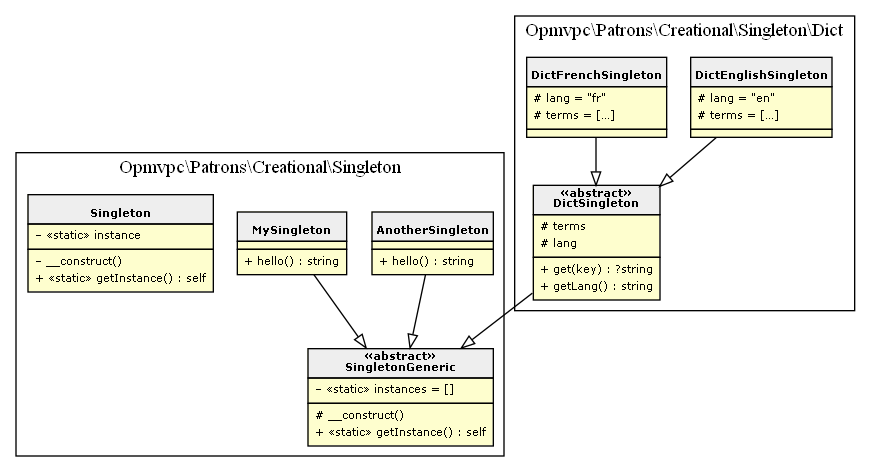
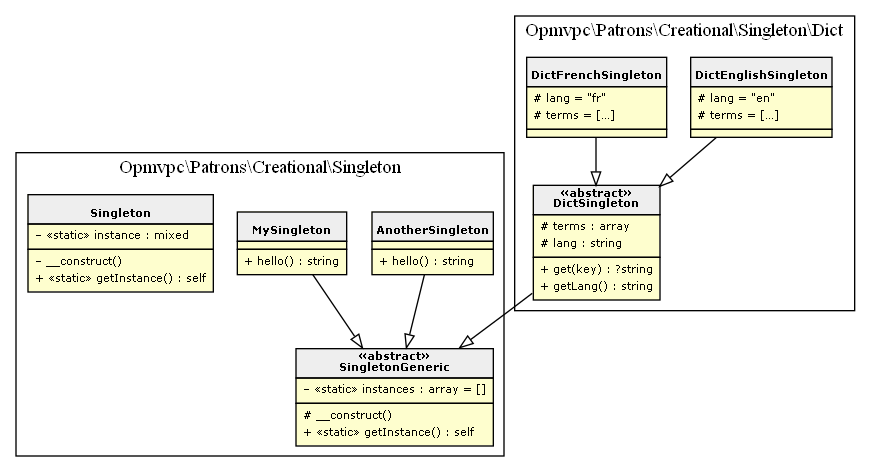
pattern proxy

diff --git a/tests/Structural/Proxy/ProxyTest.php b/tests/Structural/Proxy/ProxyTest.php
@@ -1,0 +1,44 @@
+<?php
+
+namespace Opmvpc\Patrons\Structure\Tests\Proxy;
+
+use Opmvpc\Patrons\Structural\Proxy\FakeVideo;
+use Opmvpc\Patrons\Structural\Proxy\MP4Video;
+use PHPUnit\Framework\TestCase;
+
+class ProxyTest extends TestCase
+{
+    /** @test */
+    public function returns_a_new_instance()
+    {
+        $video = new FakeVideo('path/to/file');
+        $this->assertInstanceOf(FakeVideo::class, $video);
+    }
+
+    /** @test */
+    public function it_creates_a_new_MP4Video()
+    {
+        $video = new FakeVideo('path/to/file');
+        $this->assertNull($video->getRef());
+        $video->play();
+        $this->assertInstanceOf(MP4Video::class, $video->getRef());
+    }
+
+    /** @test */
+    public function it_can_show_an_image_placeholder()
+    {
+        $video = new FakeVideo('path/to/file');
+        $this->assertNull($video->getRef());
+        $video->show();
+    }
+
+    /** @test */
+    public function it_can_show_the_video_image()
+    {
+        $video = new FakeVideo('path/to/file');
+        $this->assertNull($video->getRef());
+        $video->play();
+        $this->assertInstanceOf(MP4Video::class, $video->getRef());
+        $video->show();
+    }
+}

diff --git a/src/Structural/Proxy/FakeVideo.php b/src/Structural/Proxy/FakeVideo.php
@@ -1,0 +1,67 @@
+<?php
+
+declare(strict_types=1);
+
+namespace Opmvpc\Patrons\Structural\Proxy;
+
+class FakeVideo implements Video
+{
+    /**
+     * @var string
+     */
+    private string $fileName;
+
+    /**
+     * @var null|Video
+     */
+    private ?Video $ref = null;
+
+    /**
+     * @param string $filename
+     * @return void
+     */
+    public function __construct(string $fileName)
+    {
+        $this->fileName = $fileName;
+    }
+
+    /**
+     * @return void
+     */
+    public function play(): void
+    {
+        if ($this->ref === null) {
+            $this->ref = new MP4Video($this->fileName);
+        }
+        $this->ref->play();
+    }
+
+    /**
+     * @return void
+     */
+    public function show(): void
+    {
+        if ($this->ref === null) {
+            $this->drawImage();
+        } else {
+            $this->ref->show();
+        }
+    }
+
+    /**
+     * @return void
+     */
+    private function drawImage(): void
+    {
+        // draw img from first frame of the video
+    }
+
+    /**
+     *
+     * @return null|Video
+     */
+    public function getRef(): ?Video
+    {
+        return $this->ref;
+    }
+}

diff --git a/generateUmlCD.php b/generateUmlCD.php
@@ -31,8 +31,13 @@ function generateDiagrams(): void
 function getDirs(): array
 {
     $patterns = [
-        'Creational/Factory/AbstractFactory',
-        'Creational/Singleton',
+        'Creational' => [
+            'Factory/AbstractFactory',
+            'Singleton',
+        ],
+        'Structural' => [
+            'Proxy',
+        ],
     ];
 
     return createPath($patterns);
@@ -43,8 +48,10 @@ function createPath(array $patterns)
     $paths = [];
 
     $dataSource = 'src/';
-    foreach ($patterns as $pattern) {
-        $paths[] = $dataSource . $pattern;
+    foreach ($patterns as $categoryName => $category) {
+        foreach ($category as $pattern) {
+            $paths[] = $dataSource . $categoryName . '/' . $pattern;
+        }
     }
 
     return $paths;

diff --git a/src/Structural/Proxy/MP4Video.php b/src/Structural/Proxy/MP4Video.php
@@ -1,0 +1,34 @@
+<?php
+
+declare(strict_types=1);
+
+namespace Opmvpc\Patrons\Structural\Proxy;
+
+class MP4Video implements Video
+{
+    /**
+     * @var string
+     */
+    private string $fileName;
+
+    public function __construct(string $fileName)
+    {
+        $this->fileName = $fileName;
+    }
+
+    /**
+     * @return void
+     */
+    public function play(): void
+    {
+        // play the video using filename
+    }
+
+    /**
+     * @return void
+     */
+    public function show(): void
+    {
+        // show image from file metadata
+    }
+}

diff --git a/src/Creational/Factory/AbstractFactory/Voiture/Voiture.php b/src/Creational/Factory/AbstractFactory/Voiture/Voiture.php
@@ -9,8 +9,16 @@ use Opmvpc\Patrons\Creational\Factory\AbstractFactory\Moteurs\AbstractMoteur;
 
 class Voiture
 {
+    /**
+     *
+     * @var AbstractMoteur
+     */
     private AbstractMoteur $moteur;
 
+    /**
+     *
+     * @var AbstractBatterie
+     */
     private AbstractBatterie $batterie;
 
     public function __construct(AbstractMoteur $moteur, AbstractBatterie $batterie)

diff --git a/src/Creational/Singleton/Dict/DictSingleton.php b/src/Creational/Singleton/Dict/DictSingleton.php
@@ -8,8 +8,14 @@ use Opmvpc\Patrons\Creational\Singleton\SingletonGeneric;
 
 abstract class DictSingleton extends SingletonGeneric
 {
+    /**
+     * @var array
+     */
     protected array $terms;
 
+    /**
+     * @var string
+     */
     protected string $lang;
 
     public function get(string $key): ?string

diff --git a/src/Creational/Singleton/Singleton.php b/src/Creational/Singleton/Singleton.php
@@ -9,6 +9,9 @@ namespace Opmvpc\Patrons\Creational\Singleton;
  */
 class Singleton
 {
+    /**
+     * @var null|Singleton
+     */
     private static ?Singleton $instance = null;
 
     private function __construct()

diff --git a/src/Structural/Proxy/Video.php b/src/Structural/Proxy/Video.php
@@ -1,0 +1,12 @@
+<?php
+
+declare(strict_types=1);
+
+namespace Opmvpc\Patrons\Structural\Proxy;
+
+interface Video
+{
+    public function play():void;
+
+    public function show():void;
+}

diff --git a/src/Creational/Singleton/SingletonGeneric.php b/src/Creational/Singleton/SingletonGeneric.php
@@ -6,6 +6,9 @@ namespace Opmvpc\Patrons\Creational\Singleton;
 
 abstract class SingletonGeneric
 {
+    /**
+     * @var array
+     */
     private static array $instances = [];
 
     /**

diff --git a/README.md b/README.md
@@ -25,13 +25,13 @@ Permet de forcer une classe à n'être instanciée qu'une seule fois. Pour mettr
 ![](src/Creational/Singleton/cd.png)
 
 ### Singleton classic
-[Singleton.php](src/Creational/Singleton/Singleton.php)
+[code de Singleton.php](src/Creational/Singleton/Singleton.php)
 
 *Problème:* la variable statique $instance est partagée pour toutes les classes qui étendent Singleton
 
 ### Singleton Générique
 
-[SingletonGeneric.php](src/Creational/Singleton/SingletonGeneric.php)
+[code de SingletonGeneric.php](src/Creational/Singleton/SingletonGeneric.php)
 
 *Problème:* En php, on a pas encore de types génériques. On peut utiliser Psalm pour les simuler avec la balise "@ template T" Malheureusement, elle ne fonctionne pas pour les attributs statiques.
 
@@ -89,9 +89,7 @@ Exemple:
 
 ### Utilisation du pattern pour un dictionnaire en plusieurs langues
 
-[DictSingleton.php](src/Creational/Singleton/Dict/DictSingleton.php)
-
-[DictEnglishSingleton.php](src/Creational/Singleton/Dict/DictEnglishSingleton.php)
+[code de l'exemple du dictionnaire](src/Creational/Singleton/Dict)
 
 On peut instancier plusieurs classes qui étendent DictSingleton. On viole les principes du patron Singleton de base.
 
@@ -101,7 +99,7 @@ On peut instancier plusieurs classes qui étendent DictSingleton. On viole les p
 Permet de créer des objets différents avec une API qui sera similaire.
 Exemple ici avec Des usines à voitures thermiques et électriques.
 
-[AbstractFactory.php](src/Creational/Factory/AbstractFactory/AbstractFactory.php)
+[code du pattern AbstractFactory](src/Creational/Factory/AbstractFactory/)
 
 ![](src/Creational/Factory/AbstractFactory/cd.png)
 
@@ -114,6 +112,29 @@ Cloner des objets plutôt que de les créer par l'opération "new ObjectClass()"
 
 # Structural
 ## Proxy
+
+Permet de cacher un objet couteux en ressources en ne manipulant qu'un objet proxy qui va s'occuper de créer et manipuler l'objet couteux pour nous.
+
+[code du pattern Proxy](src/Structural/Proxy)
+
+![](src/Structural/Proxy/cd.png)
+
+Utilisations:
+* On doit controller l'accès à un objet
+* On doit ajouter des fonctionnalités quand on accède à un objet.
+* Droits d'accès
+* Le proxy peut-être utilisé comme substitue d'un autre objet
+
+Types de proxies:
+* Protection proxy (controlle d'accès à une ressource)
+* Virtual proxy (exemple du placeholder video)
+* Remote proxy (objet local qui cache les appels à distance vers un serveur)
+
+Sources:
+
+[https://en.wikipedia.org/wiki/Proxy_pattern](https://en.wikipedia.org/wiki/Proxy_pattern)
+
+[https://www.geeksforgeeks.org/proxy-design-pattern/](https://www.geeksforgeeks.org/proxy-design-pattern/)
 
 ## Decorator
 
@@ -150,7 +171,7 @@ Cloner des objets plutôt que de les créer par l'opération "new ObjectClass()"
 - [ ] Méthodes clone et wakeup pour le pattern singleton
 - [x] Générer les diagrammes de classe sur base du code
 - [ ] Ajouter les patterns vus aux cours
-    - [ ] Proxy
+    - [x] Proxy
     - [ ] Decorator
     - [ ] Composite
     - [ ] Prototype
